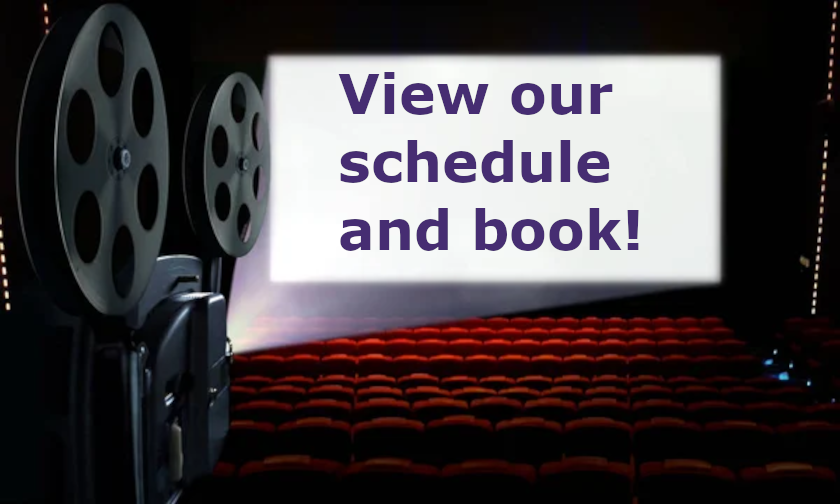
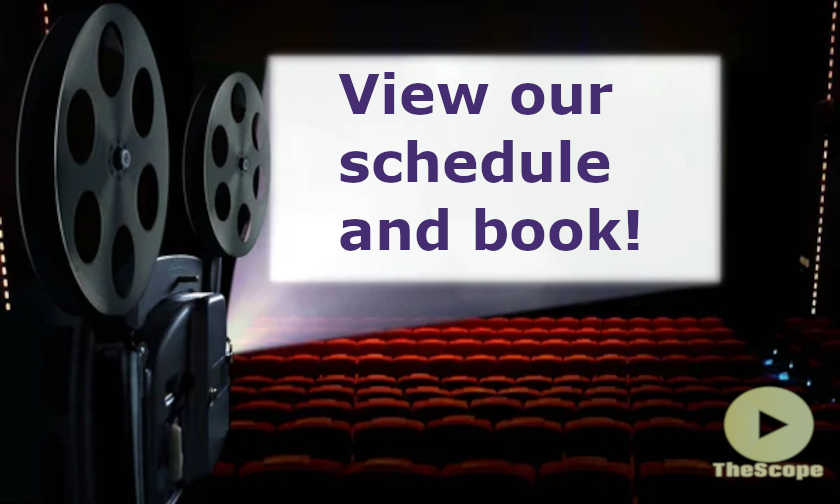
BugFix Seats available + Frontend welcome.png

Changed region(s): [[0.8357, 0.744, 0.9905, 0.9524]]

diff --git a/src/main/resources/templates/views/movieschedule.html b/src/main/resources/templates/views/movieschedule.html
@@ -21,9 +21,9 @@ Room: <span th:text="${schedule.getTheaterRoom.getLocation}" style="font-weight:
 </span>
 <span class="td" style="vertical-align:top;">
 <span th:if="${(schedule.getTheaterRoom.getMaxNormalSeats-schedule.getCountSeats)>0} or ${(schedule.getTheaterRoom.getMaxVipSeats-schedule.getCountVipSeats)>0}"   style="font-size:22px;font-weight:bold; color:green">Seats available</span><br>
-<span th:if="${(schedule.getTheaterRoom.getMaxNormalSeats-schedule.getCountSeats)==0} and ${(schedule.getTheaterRoom.getMaxVipSeats-schedule.getCountVipSeats)==0}"   style="font-size:18px;font-weight:bold; color:red">No seats available</span><br>
-<span style="font-size:12px;font-weight:bold;"><span th:if="${(schedule.getTheaterRoom.getMaxNormalSeats-schedule.getCountSeats)>0} or ${(schedule.getTheaterRoom.getMaxVipSeats-schedule.getCountVipSeats)>0}">Seats left: <span th:text="${schedule.getTheaterRoom.getMaxNormalSeats-schedule.getCountSeats}"></span></span><br>
-<span th:if="${(schedule.getTheaterRoom.getMaxNormalSeats-schedule.getCountSeats)>0} or ${(schedule.getTheaterRoom.getMaxVipSeats-schedule.getCountVipSeats)>0}">Vip seats left: <span th:text="${schedule.getTheaterRoom.getMaxVipSeats-schedule.getCountVipSeats}"></span></span></span>
+<span th:if="${(schedule.getTheaterRoom.getMaxNormalSeats-schedule.getCountSeats)<1} and ${(schedule.getTheaterRoom.getMaxVipSeats-schedule.getCountVipSeats)<1}"   style="font-size:22px;font-weight:bold; color:red">No seats available</span><br>
+<span style="font-size:12px;font-weight:bold;"><span th:if="${(schedule.getTheaterRoom.getMaxNormalSeats-schedule.getCountSeats)>0}">Seats left: <span th:text="${schedule.getTheaterRoom.getMaxNormalSeats-schedule.getCountSeats}"></span></span><br>
+<span th:if="${(schedule.getTheaterRoom.getMaxVipSeats-schedule.getCountVipSeats)>0}">Vip seats left: <span th:text="${schedule.getTheaterRoom.getMaxVipSeats-schedule.getCountVipSeats}"></span></span></span>
 <input th:value="${schedule.getPKscheduleShow}" type="hidden" name="PKschedule">
 <br><br>
 <button type="submit" th:if="${(schedule.getTheaterRoom.getMaxNormalSeats-schedule.getCountSeats)>0} or ${(schedule.getTheaterRoom.getMaxVipSeats-schedule.getCountVipSeats)>0}" >Book this show</button>

diff --git a/src/main/resources/templates/index.html b/src/main/resources/templates/index.html
@@ -127,7 +127,7 @@ function show_alert(index) {
 			<div class="prs_navi_left_main_wrapper">
 				<div class="prs_logo_main_wrapper">
 					<a href="/"><img th:src="@{/assets/logo_yellow.png}" width="130" height="110"
-						alt="logo"></a>
+						alt="TheScope" title="TheScope"></a>
 				</div>
 				<div class="prs_menu_main_wrapper">
 					<nav class="navbar navbar-default">
